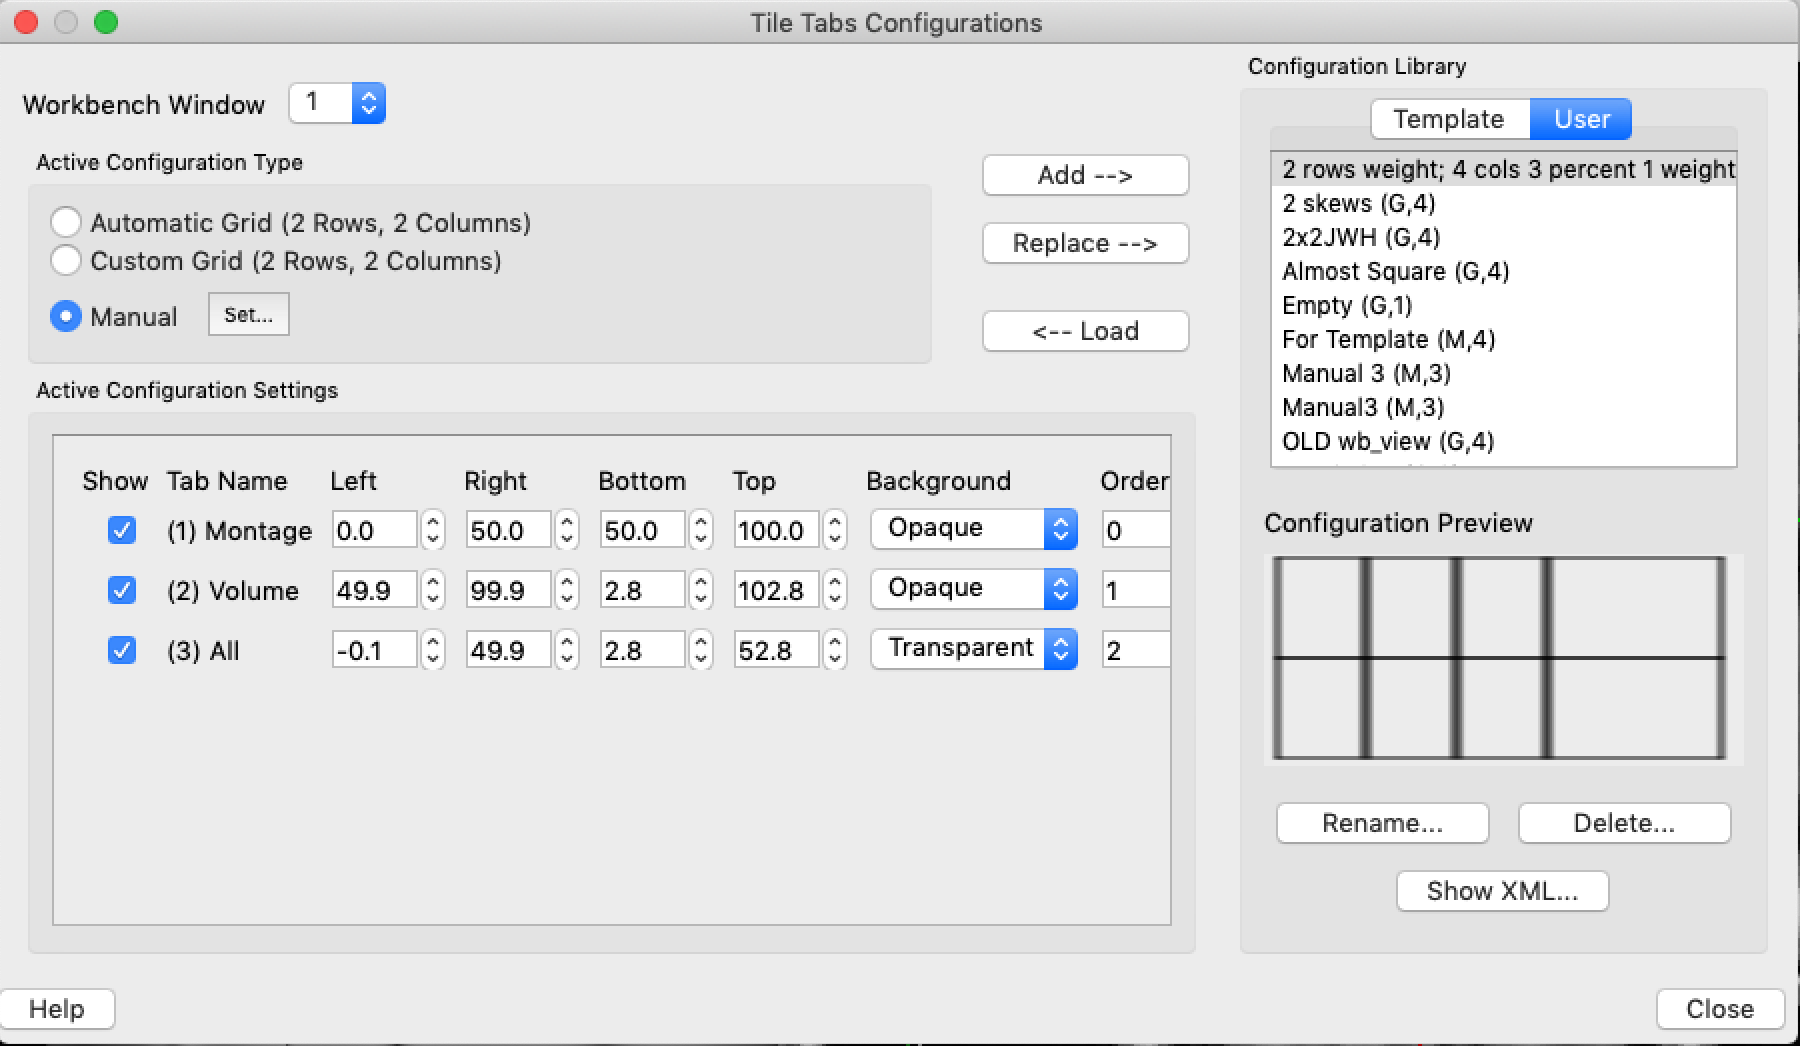
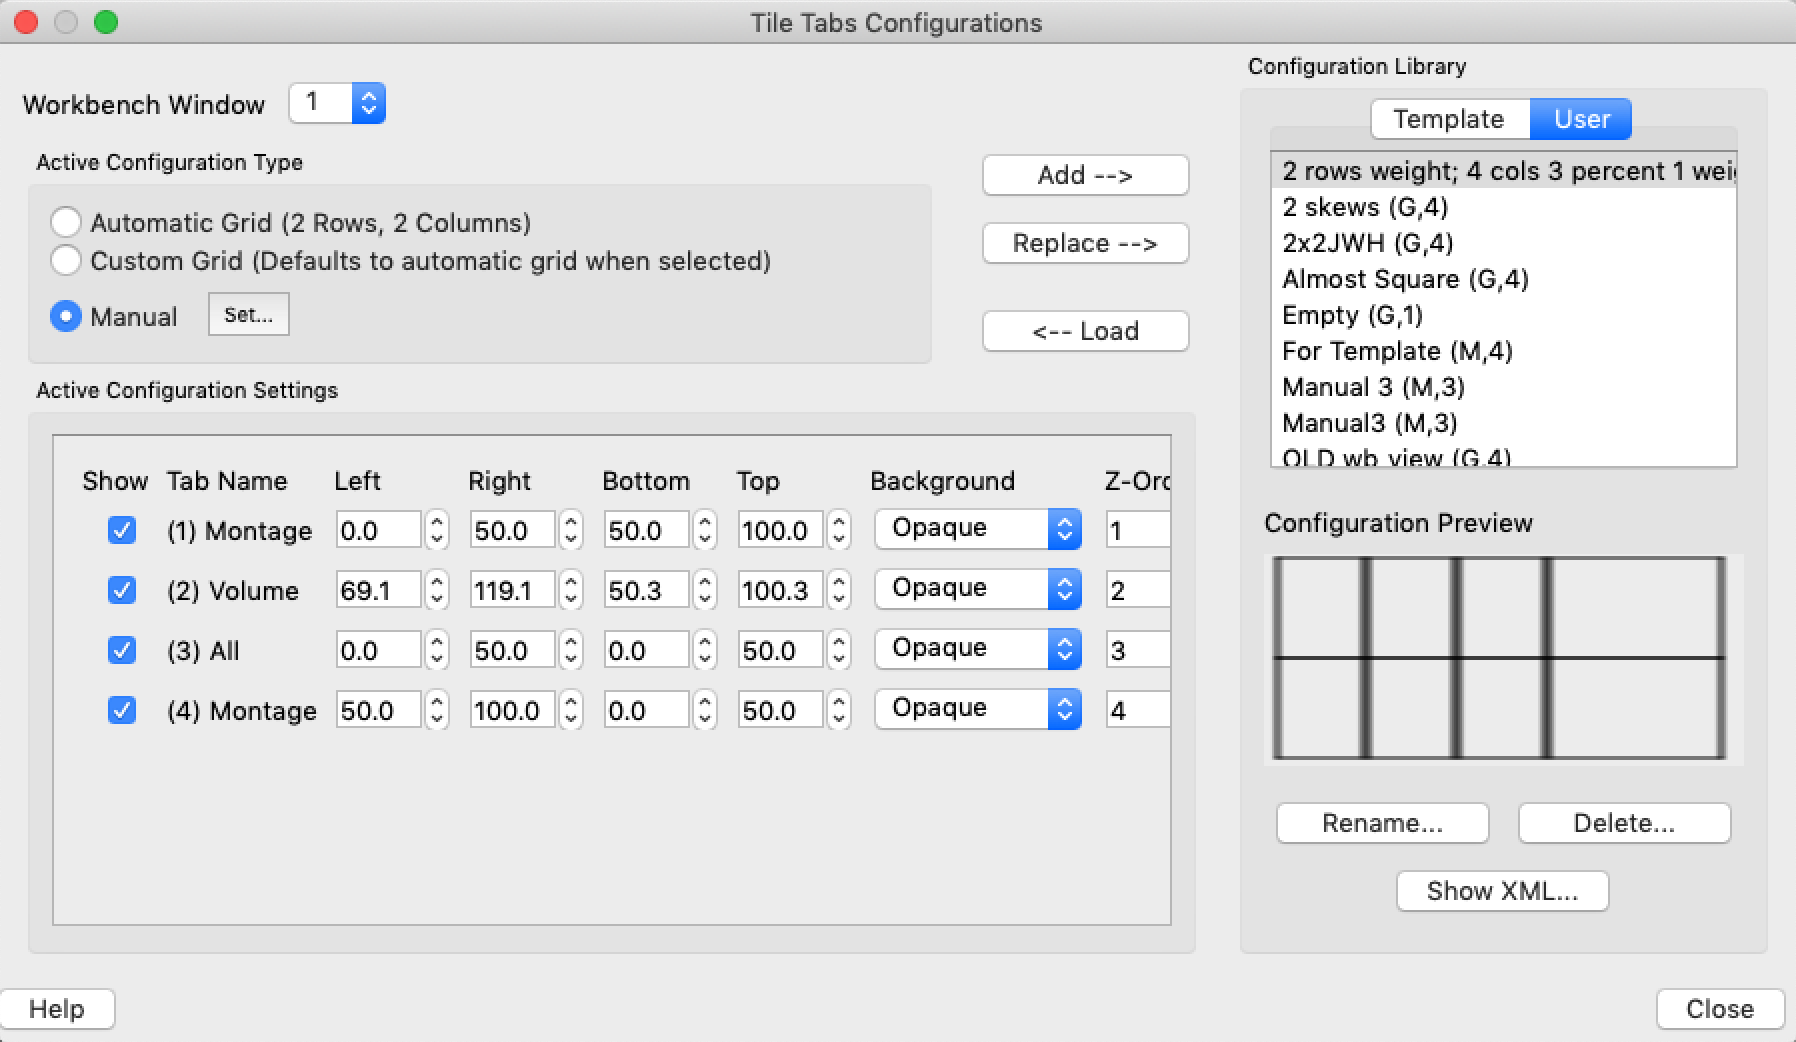
Updates to tile tabs help files

diff --git a/src/Resources/Help/HelpFiles/Menus/View_Menu/Tile_Tabs_Configuration/Tile_Tabs_Configuration.html b/src/Resources/Help/HelpFiles/Menus/View_Menu/Tile_Tabs_Configuration/Tile_Tabs_Configuration.html
@@ -16,8 +16,10 @@
 
 
 
+
             Tabs</b></u></a> in the <a
         href="../../../Workbench_Window/Viewing_Area/Viewing_Area.html"><u><b>Viewing
+
 
 
 
@@ -48,6 +50,7 @@
 
 
 
+
         Window</b>&nbsp; </h2>
     <br>
     Selects the window for control of the window's Tile Tabs
@@ -66,12 +69,14 @@
 
 
 
+
           </b>- This is the default selection and Workbench will adjust
           the number of rows and columns so that all tabs are
           displayed.&nbsp; </font><font face="Calibri"><font
             face="Calibri"><font face="Calibri">The first tab will be in
               the top left corner with subsequent tabs appearing to the
               right and wrapping to the next row when a row is filled</font>.&nbsp;
+
 
 
 
@@ -284,7 +289,7 @@
     <h3>Manual Editing<br>
     </h3>
     <p><img src="Tile_Tabs_Configuration_Manual.png" alt="dialog"
-        width="600" height="349"></p>
+        width="1200" height="696"></p>
     <p>In a manual configuration, the user is responsible for the
       placement and sizing of the tab.&nbsp; <br>
     </p>
@@ -377,6 +382,11 @@
     editing controls are in Window Percentages with zero percent at the
     bottom/left and one-hundred percent at the right/top. <br>
     <ul>
+      <li>(Tab Number/Name) - If one tab is selected, its number and
+        name is displayed.&nbsp; If more than one tab is displayed, only
+        the tab numbers are displayed.&nbsp; The <b>Draw Content</b>
+        checkbox controls drawing on/off of the tab.<br>
+      </li>
       <li><b>Bounds</b> – Controls for changing the size of the tab by
         moving the tab’s sides.&nbsp; Moving one of the bounds will
         change the width or height of the tab.</li>
@@ -385,6 +395,14 @@
         change.</li>
       <li><b>Size</b> – Controls for setting the width or height of the
         tab.</li>
+      <li><b>Background</b> - Controls for changing the background
+        between <i>Opaque</i> and <i>Transparent</i>.&nbsp; <b>Order</b>
+        controls the drawing of tabs from back to front.&nbsp; It is a
+        numerical value that sets the back to front order of the tab
+        (larger numerical values are in front of smaller numerical
+        values).&nbsp; When tabs overlay, the Order value is used to
+        control the overlap of tabs (which tab is in front or other
+        tab(s)). </li>
       <li><b>Format</b> – Displays a menu for performing placement
         options on the selected tab(s)</li>
       <li><b>Edit</b> – Allows one to undo or redo a tab position or
